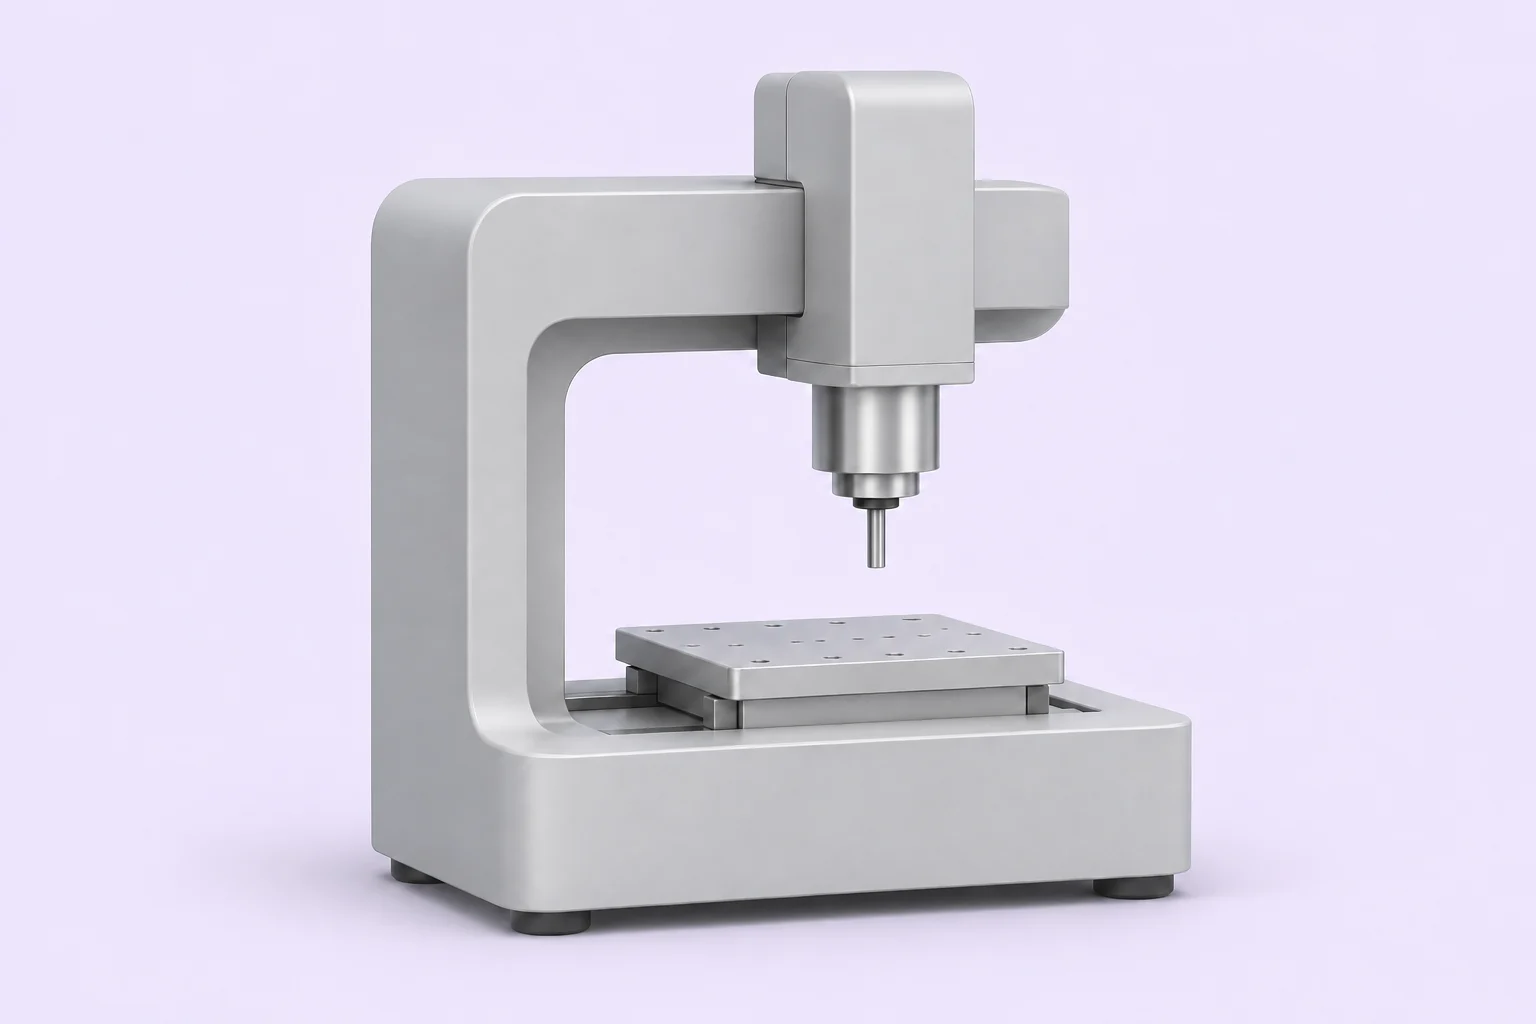
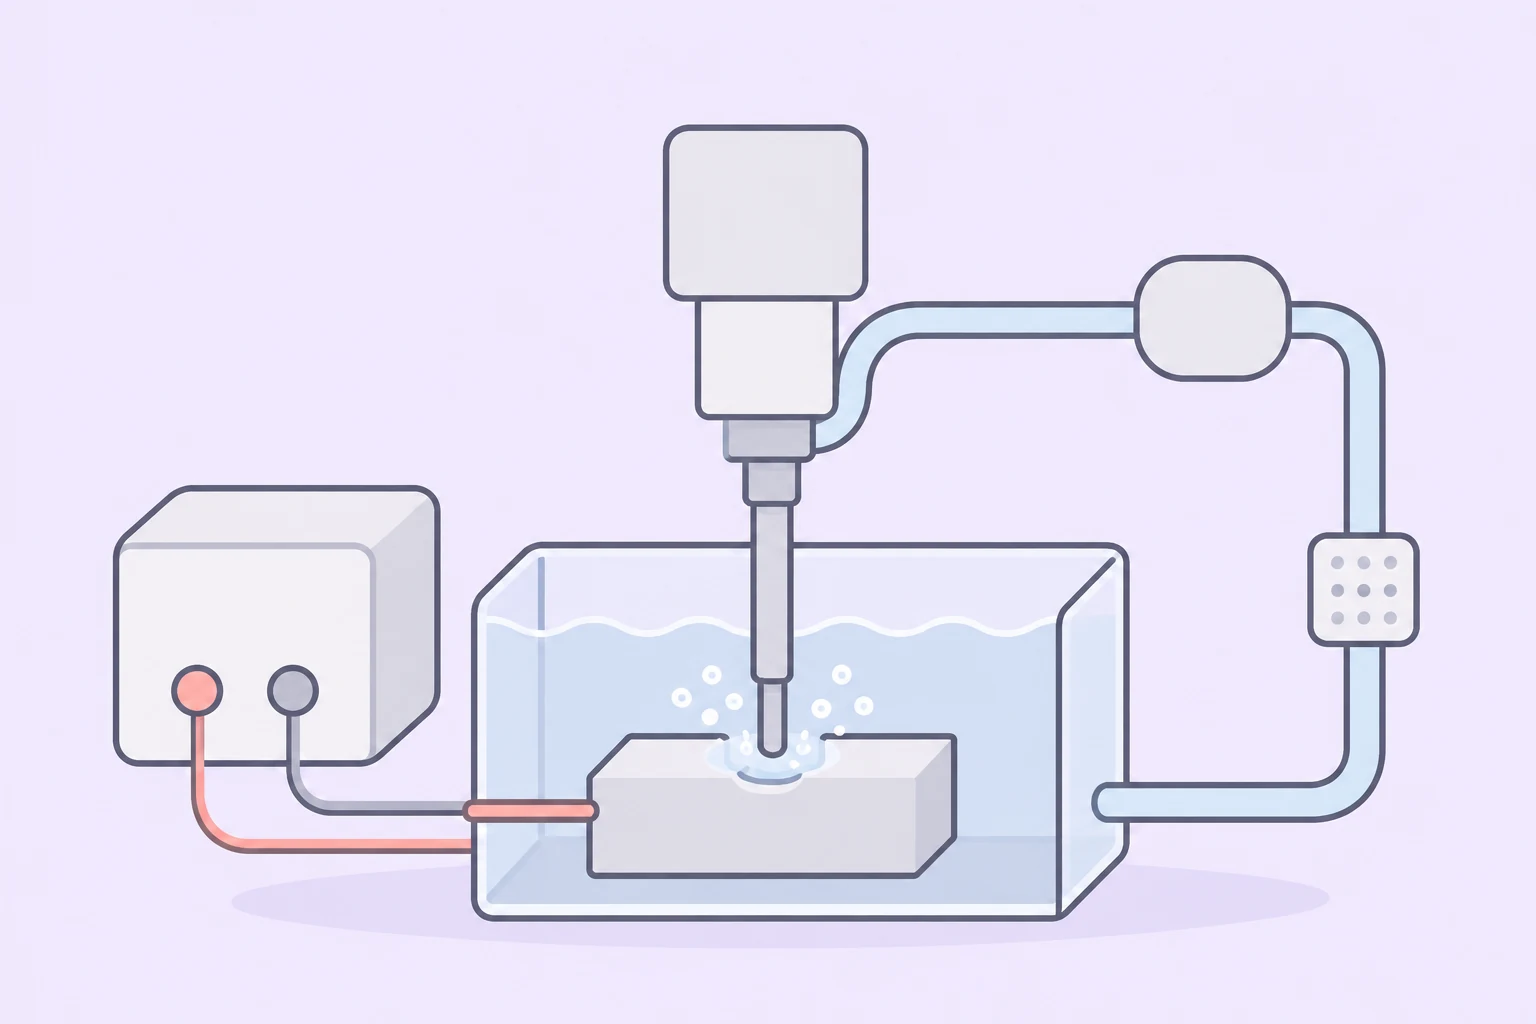
Replace ECM cover image

diff --git a/src/styles/global.css b/src/styles/global.css
@@ -270,7 +270,7 @@ body:has(.hero) main { overflow: clip; }
 .case-cover { position: relative; height: 490px; border-radius: var(--radius); overflow: hidden; background: var(--blue); }
 .case-cover img { width: 100%; height: 100%; object-fit: contain; }
 .case-study:has(img[src$="iot.svg"]) .case-cover { background: var(--sage); }
-.case-study:has(img[src$="ecm.svg"]) .case-cover { background: var(--lavender); }
+.case-study:has(img[src$="covers/ecm.webp"]) .case-cover { background: var(--lavender); }
 .project-facts { display: flex; gap: 45px; border-bottom: 1px solid var(--border); padding-block: 32px; margin: 0; }
 .project-facts>div { flex: 1; }
 .project-facts>div:last-child { flex: 2; }

diff --git a/docs/STATUS.md b/docs/STATUS.md
@@ -20,7 +20,7 @@ Documentation was committed as `1078224`. Subsequent implementation checkpoints 
 - `/resume/` preview with real resume PDF, mobile first-page fallback, Open PDF, and separate Download PDF.
 - Rocket report and poster copied intact to `public/documents/` and linked through preview pages.
 - Rocket case study separates simulations, ground tests, flights, and team contribution. Existing airbrake CAD and report evidence remain in the case study.
-- ECM original SVG is preserved and active as its cover; four new projects use pale technical generated illustrations. Rocket cover uses the existing complete slender rocket illustration.
+- ECM uses the owner-supplied `covers/ecm.webp` concept illustration; its original SVG is preserved as a style reference. Rocket cover uses the existing complete slender rocket illustration.
 - Latest verification before this documentation-only task: `npm run verify` passed Astro diagnostics, built 14 pages, checked 187 local links, required routes, drafts, all six listing illustrations, rocket evidence/document links, and resume viewer. GitHub Pages subpath check passed with temporary example variables.
 - Native Safari inspection covered desktop hero/project artwork/resume viewer and 390px Home, Projects, Resume, rocket case study, and document preview routes. All six project listing images loaded. Poster Open PDF opened Safari’s viewer. Mobile filtering and Escape/menu navigation were exercised.
 
@@ -74,3 +74,9 @@ Verification: `npm run verify` passed with zero Astro diagnostics, 14 generated 
 ## Public email removal — 2026-11-10
 
 Removed the email address and email links from public page components, central site configuration, and public content documentation at the owner's request. Verification pending. Existing resume PDF remains a public document and may itself contain contact information; review or replace it locally if it should also be removed before publishing.
+
+## ECM cover replacement — 2026-11-11
+
+Checkpoint: `085e9fd`. Replaced the active ECM listing and case-study cover with the owner-supplied electrochemical-machining concept image at `public/images/projects/covers/ecm.webp`, optimized from its supplied 1536 × 1024 PNG. The original `public/images/projects/ecm.svg` remains preserved as a style reference. Project metadata, the ECM case-cover background selector, and the build regression expectation now use the permanent WebP path. The unrelated untracked `Shota_Kakiuchi_Recruit_Personal_Statement.pdf` was not changed or included.
+
+Verification: `npm run verify` passed with zero Astro diagnostics, 14 generated pages, and 187 checked local links. Built Home/Projects card and ECM case-study HTML reference the new WebP; the optimized asset was visually inspected at its full 1536 × 1024 dimensions. A local browser preview could not remain running in this environment, so fresh desktop/390px page-level browser screenshots are not available.

diff --git a/docs/media-sources.md b/docs/media-sources.md
@@ -24,8 +24,8 @@ Original PDFs copied intact from the two user-supplied Downloads paths into `pub
 
 ## Generated listing illustrations
 
-Six optimized 1536 × 1024 WebP images in `public/images/projects/covers/` were generated using the built-in image-generation tool. They are representative illustrations, not documentary project photographs or evidence of exact hardware configurations. Prompts are recorded in `docs/generated-cover-prompts.json`. The ECM illustration was refined to show a smooth cylindrical electrode. The rocket uses a long slender body, pointed nose, and aft fins without invented exposed mechanisms. Existing project photography/CAD remains in case studies.
+Several optimized 1536 × 1024 WebP images in `public/images/projects/covers/` were generated using the built-in image-generation tool. They are representative illustrations, not documentary project photographs or evidence of exact hardware configurations. Prompts are recorded in `docs/generated-cover-prompts.json`. The rocket uses a long slender body, pointed nose, and aft fins without invented exposed mechanisms. Existing project photography/CAD remains in case studies. `covers/ecm.webp` is the owner-supplied replacement cover, optimized from the attached PNG; it is also a concept illustration, not documentary evidence.
 
 ## Technical-cover correction (2026-11-10)
 
-The original `public/images/projects/ecm.svg` is preserved byte-for-byte and reconnected as the ECM listing illustration. Four new built-in imagegen covers (`*-technical.webp`) match its pale grid, muted outlines and restrained gradients. `docs/technical-cover-generation.json` records prompts and generation provenance. The image tool rejected two benign complete-rocket generation attempts. The existing generated long-rocket cover is connected explicitly instead of CAD; matching its style to the ECM reference remains incomplete. No photograph or CAD is used as a listing cover. The original airbrake assembly remains the rocket case-study cover, with real report evidence in its gallery.
+The original `public/images/projects/ecm.svg` is preserved byte-for-byte as the style reference. The active ECM listing and case-study cover is `public/images/projects/covers/ecm.webp`, an owner-supplied image optimized from the attached PNG. Four built-in imagegen covers (`*-technical.webp`) match the reference’s pale grid, muted outlines and restrained gradients. `docs/technical-cover-generation.json` records prompts and generation provenance. The image tool rejected two benign complete-rocket generation attempts. The existing generated long-rocket cover is connected explicitly instead of CAD; matching its style to the ECM reference remains incomplete. No photograph or CAD is used as a listing cover. The original airbrake assembly remains the rocket case-study cover, with real report evidence in its gallery.

diff --git a/docs/DECISIONS.md b/docs/DECISIONS.md
@@ -4,7 +4,7 @@
 - **Name-first hero.** “shota kakiuchi.” is the main heading; “mechanical & hardware engineer.” is smaller. Previous greeting/kicker text is superseded and must not return. Hero height stays flexible, especially on small screens.
 - **Home and navigation.** Keep SK. and About / Projects / Resume / Contact. “Explore my work” targets selected work; Projects opens the full collection. Philosophy and About business card remain.
 - **Resume behavior.** Resume navigation points to `/resume/`, with readable embedded preview and Open PDF fallback. Download is separate and optional. Do not put `download` on the primary preview action.
-- **Illustration versus evidence.** Homepage and collection listing media are simplified concept illustrations, labeled as such. The ECM SVG is the style reference. Photographs, detailed CAD, report pages, diagrams, and test results stay inside their case studies, where captions preserve context. This replaces the earlier mixed listing covers and the rocket airbrake-CAD listing cover.
+- **Illustration versus evidence.** Homepage and collection listing media are simplified concept illustrations, labeled as such. The preserved ECM SVG remains a style reference; the active ECM cover is the owner-supplied ECM concept image. Photographs, detailed CAD, report pages, diagrams, and test results stay inside their case studies, where captions preserve context. This replaces the earlier mixed listing covers and the rocket airbrake-CAD listing cover.
 - **Supplied gimbal and Mini Pupper covers.** The owner-supplied red gimbal and yellow robot-dog illustrations are the active listing covers for their respective projects. Their baked interface labels were removed in repository copies; `ProjectCard.astro` remains the single source of the card caption and arrow.
 - **Content source of truth.** Profile arrays and site/contact values live in `src/data/`; project facts and case studies live in Markdown collection entries; document metadata lives in `src/data/documents.ts`. Avoid redundant hard-coded copies.
 - **Static hosting.** Keep Astro static output and existing GitHub Pages workflow. No backend or paid runtime is needed; do not publish or push without authorization.

diff --git a/docs/ASSETS.md b/docs/ASSETS.md
@@ -4,14 +4,14 @@ All live website dependencies must use repository paths under `public/`. Do not 
 
 ## Listing covers
 
-Homepage and Projects cards use `illustration` in each project Markdown entry (except ECM, whose original SVG is itself the cover). The component labels these images “concept illustration”. These images are representative artwork, never documentary evidence.
+Homepage and Projects cards use `illustration` in each project Markdown entry. The component labels these images “concept illustration”. These images are representative artwork, never documentary evidence.
 
 - Rocket: `public/images/projects/covers/rocket.webp` — generated full slender rocket concept with pointed nose and aft fins. It does not yet match the ECM line-art style; see STATUS.
 - Environmental chamber: `public/images/projects/covers/chamber-spools.webp` — generated enclosure and monitor concept.
 - Face-tracking gimbal: `public/images/projects/covers/face-tracking-laser-gimbal-concept.png` — owner-supplied red camera-gimbal concept illustration. The baked caption and arrow were removed from the repository copy so the card's HTML controls remain the only caption and arrow.
 - Mini Pupper: `public/images/projects/covers/autonomous-mini-pupper-concept.png` — owner-supplied yellow quadruped concept illustration. The baked caption and arrow were removed from the repository copy so the card's HTML controls remain the only caption and arrow.
 - Rube Goldberg machine: `public/images/projects/covers/rube-goldberg-technical.webp` — generated connected mechanism concept.
-- Electrochemical machining: `public/images/projects/ecm.svg` — original simplified technical illustration, preserved.
+- Electrochemical machining: `public/images/projects/covers/ecm.webp` — owner-supplied pale technical concept illustration. The original `public/images/projects/ecm.svg` remains preserved as a style reference.
 
 Earlier `public/images/projects/covers/*.webp` images and `public/images/projects/*.svg` files remain in the repository; only paths referenced by current project content are active listing media. Generation prompts and limitations are recorded in `technical-cover-generation.json` and `media-sources.md`.
 

diff --git a/docs/CHANGELOG.md b/docs/CHANGELOG.md
@@ -10,6 +10,8 @@ The checkpoint bundle begins on 2026-11-10; no original repository history exist
 
 ## Newly recorded in this handoff
 
+- **2026-11-11 — ECM cover replacement** — Replaced the active ECM listing and case-study cover with the owner-supplied optimized `covers/ecm.webp`; preserved the original ECM SVG as a style reference and updated cover verification.
+
 - **2026-11-10 — Documentation system** — Added root contributor/agent instructions and consolidated design, approved public content, asset provenance, project status, decisions, and change history. Added project setup and repository-map guidance to README. Captured current document state in the checkpoint bundle.
 
 - **2026-11-10 — Chamber engineering story** — Reused existing concept artwork, added a responsive five-stage monitoring flow and three concise supporting cards, and removed unconfirmed integrations from public copy. Desktop/390px review and existing verification passed.

diff --git a/docs/content-needed.md b/docs/content-needed.md
@@ -58,4 +58,4 @@ All listing covers now use generated representative concept illustrations, label
 
 ## Outstanding cover request
 
-The four technical-style replacements and original ECM illustration are connected. A matching thin-outline rocket illustration is still needed: built-in image generation rejected both attempts. The listing currently uses the existing generated complete slender rocket, clearly labeled concept illustration, never the mechanism CAD.
+The owner-supplied ECM cover is connected; the original ECM SVG remains preserved as a style reference. A matching thin-outline rocket illustration is still needed: built-in image generation rejected both attempts. The listing currently uses the existing generated complete slender rocket, clearly labeled concept illustration, never the mechanism CAD.

diff --git a/src/content/projects/electrochemical-machining.md b/src/content/projects/electrochemical-machining.md
@@ -6,10 +6,10 @@ category: "Manufacturing"
 filters: ["Manufacturing"]
 tools: ["Process Design", "Electrochemistry", "CNC", "Manufacturing"]
 illustration:
-  src: /images/projects/ecm.svg
-  alt: Original pale technical concept illustration of an electrochemical machining system; not project photography
-cover: /images/projects/ecm.svg
-coverAlt: "Illustrative ECM engineering line drawing; not a project photograph"
+  src: /images/projects/covers/ecm.webp
+  alt: Pale technical concept illustration of an electrochemical machining system; not project photography
+cover: /images/projects/covers/ecm.webp
+coverAlt: "Illustrative electrochemical machining system concept; not a project photograph"
 status: published
 documentation: complete
 order: 6

diff --git a/docs/verification.md b/docs/verification.md
@@ -1,5 +1,11 @@
 # Verification — 2026-11-10
 
+## ECM cover replacement — 2026-11-11
+
+- `npm run verify` passed: zero Astro diagnostics, 14 generated pages, and 187 checked local asset/navigation links.
+- Regression assertions confirm `covers/ecm.webp` is the ECM listing image in both Home and Projects. The built ECM case-study route also references the new WebP.
+- The 1536 × 1024 optimized WebP was visually inspected directly and preserves the supplied concept illustration. A local preview server did not remain available for fresh desktop/390px page screenshots.
+
 ## Completed
 
 - Astro check and production build pass; required-page, local-link and draft-exclusion checks pass.
